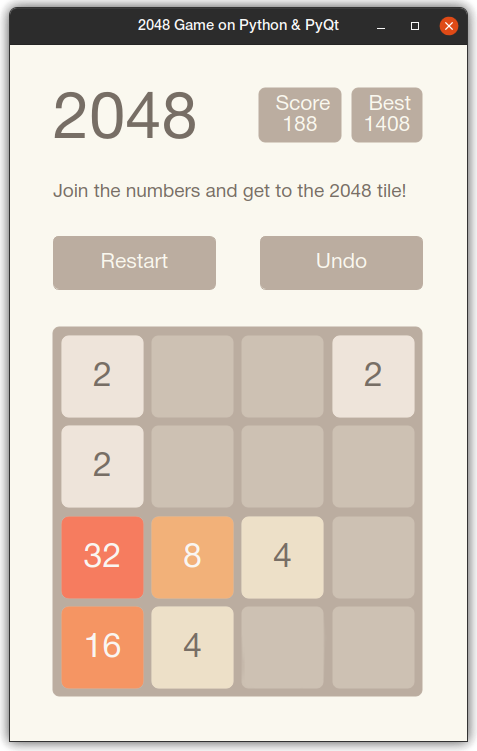
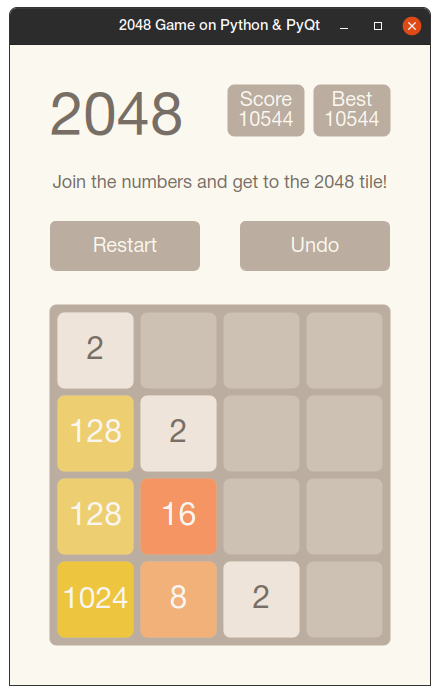
Pre-final

diff --git a/buttons.css b/buttons.css
@@ -1,0 +1,7 @@
+QPushButton {
+    border: 1px solid #%s;
+    border-radius: %spx;
+    background-color: #%s;
+    font: %spx;
+    color: #%s;
+}

diff --git a/game.py b/game.py
@@ -16,6 +16,7 @@
 
 # import standard
 import sys
+import time
 import random
 import configparser
 
@@ -43,13 +44,10 @@ class Tile(QtCore.QObject):
         self.spawn_animation.setDuration(int(cfg.get("Appearance", "time.animations")))
         self.splash_animation = QtCore.QPropertyAnimation(self, b'geometry')
         self.splash_animation.setDuration(int(cfg.get("Appearance", "time.animations")))
-
         self.cell_color = QtGui.QColor("#" + cfg.get("Appearance", "color.%s" % value if value <= 2048 else 2048))
         self.text_color = QtGui.QColor("#" + cfg.get("Appearance", "color.text.dark"))
         if value > 4:
             self.text_color = QtGui.QColor("#" + cfg.get("Appearance", "color.text.light"))
-        self.pen = QtGui.QPen(QtCore.Qt.SolidLine)
-        self.brush = QtGui.QBrush(self.cell_color)
         self.font = QtGui.QFont()
 
     def setGeometry(self, rect: QtCore.QRect):
@@ -69,16 +67,15 @@ class Tile(QtCore.QObject):
                                 self._height)
 
     def render(self, painter):
-        self.pen.setColor(self.cell_color)
-        painter.setPen(self.pen)
-        painter.setBrush(self.brush)
+        painter.setPen(self.cell_color)
+        painter.setBrush(self.cell_color)
         painter.drawRoundedRect(self.getGeometry(),
                                 self.matrix.sf * 3,
                                 self.matrix.sf * 3,
                                 QtCore.Qt.AbsoluteSize)
-        self.pen.setColor(self.text_color)
-        painter.setPen(self.pen)
-        pixel_size = int(16 * self.matrix.sf * (self._width/self.matrix.tl))
+        painter.setPen(self.text_color)
+        pixel_size = int(16 * self.matrix.sf * (self._width/self.matrix.tl)) if self.value < 1024 else \
+            int(15 * self.matrix.sf * (self._width / self.matrix.tl))
         self.font.setPixelSize(pixel_size if pixel_size else 1)
         painter.setFont(self.font)
         painter.drawText(self.getGeometry(),
@@ -92,9 +89,10 @@ class Tile(QtCore.QObject):
 
     def splash(self):
         self.splash_animation.setStartValue(self.getGeometry())
-        self.splash_animation.setKeyValueAt(0.5, QtCore.QRect(self._x, self._y,
-                                                       int(self._width + 5 * self.matrix.sf),
-                                                       int(self._height + 5 * self.matrix.sf)))
+        self.splash_animation.setKeyValueAt(0.5, QtCore.QRect(self._x,
+                                                              self._y,
+                                                              int(self._width + 7 * self.matrix.sf),
+                                                              int(self._height + 7 * self.matrix.sf)))
         self.splash_animation.setEndValue(self.getGeometry())
         self.splash_animation.start()
 
@@ -103,23 +101,21 @@ class Tile(QtCore.QObject):
         self.move_animation.setEndValue(QtCore.QRect(target.x(), target.y(), self._width, self._height))
         self.move_animation.start()
 
-    def __str__(self):
-        return str(self.value)
-
+    # noinspection PyUnresolvedReferences
     geometry = QtCore.pyqtProperty(QtCore.QRect, fset=setGeometry)
 
 
 class Matrix:
 
     def __init__(self, parent):
-        self.parent = parent                      # parent link for tiles updating
-        self.data = []                            # tiles and coords massive
-        self.grid = int(cfg.get("Game", "grid"))  # grid resolution
-        self.sf = 1                               # current scale factor
-        self.tl = 37.5                            # target tile length
-        self.sp = 4                               # space beetwen tiles
-        self.modified = False                     # merge anchor
-        self.save_loaded = False
+        self.parent = parent                         # parent link for tiles updating
+        self.data = []                               # tiles and coords massive
+        self.grid = int(cfg.get("Game", "grid"))     # grid resolution
+        self.sf = 1                                  # current scale factor
+        self.tl = 37.5                               # target tile length
+        self.sp = 4                                  # space beetwen tiles
+        self.modified = False                        # modified anchor
+        self.save_loaded = False                     # loading progress anchor
         save = cfg.get("Game", "save")
         self.fill(list(map(int, save.split(" "))) if save else None)
 
@@ -129,14 +125,12 @@ class Matrix:
         for row in range(self.grid):
             for cell in range(self.grid):
                 # update 'position' value for every cell on grid
-                self.data[row][cell]['position'] = QtCore.QPoint(int(20 * self.sf + (cell + 1) * self.sp + cell * self.tl),
-                                                                 int(130 * self.sf + (row + 1) * self.sp + row * self.tl))
+                x = int(20 * self.sf + (cell + 1) * self.sp + cell * self.tl)
+                y = int(130 * self.sf + (row + 1) * self.sp + row * self.tl)
+                self.data[row][cell]['position'] = QtCore.QPoint(x, y)
                 # update geometry for existing tiles
                 if self.data[row][cell]['data'][0]:
-                    self.data[row][cell]['data'][0].setGeometry(QtCore.QRect(self.data[row][cell]['position'].x(),
-                                                                             self.data[row][cell]['position'].y(),
-                                                                             int(self.tl),
-                                                                             int(self.tl)))
+                    self.data[row][cell]['data'][0].setGeometry(QtCore.QRect(x, y, int(self.tl), int(self.tl)))
 
     def fill(self, defaults=None):
         # create empty
@@ -150,7 +144,7 @@ class Matrix:
             src = defaults
             self.save_loaded = True
         else:
-            src = [0 for index in range(self.grid ** 2)]
+            src = [0 for x in range(self.grid ** 2)]
         # fill
         counter = 0
         for row in self.data:
@@ -200,35 +194,33 @@ class Matrix:
                     cell['data'] = [new_tile]
                     new_tile.splash()
 
+    def shift_tile_left(self, r, c):
+        if c == 0 or len(self.data[r][c - 1]['data']) > 1:
+            return r, c
+        if self.data[r][c - 1]['data'][0] == 0:
+            self.data[r][c - 1]['data'] = self.data[r][c]['data']
+            self.data[r][c]['data'] = [0]
+            return self.shift_tile_left(r, c - 1)
+        if self.data[r][c - 1]['data'][0].value == self.data[r][c]['data'][0].value:
+            self.data[r][c - 1]['data'].append(self.data[r][c]['data'][0])
+            self.data[r][c]['data'] = [0]
+            return r, c - 1
+        return r, c
+
     def merge(self):
-        for row in range(self.grid):
-            for cell in range(self.grid):
-                if self.data[row][cell]['data'][0]:
-                    src = self.data[row][cell]['data']
-                    tile = src[0]
-                    target = None
-                    for tc in range(cell):
-                        if len(self.data[row][:cell][- tc - 1]['data']) > 1:
-                            continue
-                        if self.data[row][:cell][- tc - 1]['data'][0] == 0:
-                            self.data[row][:cell][- tc - 1]['data'] = [src[0]]
-                            target = self.data[row][:cell][- tc - 1]['position']
-                            del src[0]
-                            src.append(0)
-                            src = self.data[row][:cell][- tc - 1]['data']
-                            self.modified = True
-                        elif self.data[row][:cell][- tc - 1]['data'][0].value == src[0].value:
-                            self.data[row][:cell][- tc - 1]['data'].append(src[0])
-                            target = self.data[row][:cell][- tc - 1]['position']
-                            del src[0]
-                            src.append(0)
-                            src = self.data[row][:cell][- tc - 1]['data']
-                            self.modified = True
-                            break
-                        else:
-                            break
-                    if target:
-                        src[-1].move(target)
+        start_anim_time = None
+        for r in range(self.grid):
+            for c in range(self.grid):
+                if self.data[r][c]['data'][0] != 0:
+                    tile = self.data[r][c]['data'][0]
+                    nr, nc = self.shift_tile_left(r, c)
+                    if nc != c:
+                        tile.move(self.data[nr][nc]['position'])
+                        self.modified = True
+                        start_anim_time = time.time()
+        if start_anim_time:
+            while time.time() - start_anim_time < int(cfg.get("Appearance", "time.animations")) / 1000:
+                self.parent.update()
 
     def reverse(self):
         data = []
@@ -304,6 +296,8 @@ class Canvas(QtWidgets.QWidget):
         self.undo_button = QtWidgets.QPushButton(cfg.get("Locale", "undo"), self)
         self.undo_button.setFocusPolicy(QtCore.Qt.NoFocus)
         self.undo_button.clicked.connect(parent.undo)
+        with open('buttons.css', 'r') as css:
+            self.buttons_style = css.read()
 
     def paintEvent(self, event):
         # open painter
@@ -345,8 +339,8 @@ class Canvas(QtWidgets.QWidget):
         self.painter.drawRoundedRect(sr, int(self.sf * 3), int(self.sf * 3), QtCore.Qt.AbsoluteSize)
         self.painter.drawRoundedRect(hsr, int(self.sf * 3), int(self.sf * 3), QtCore.Qt.AbsoluteSize)
         self.painter.setPen(QtGui.QColor("#" + cfg.get("Appearance", "color.background")))
-        self.painter.drawText(sr, QtCore.Qt.AlignVCenter|QtCore.Qt.AlignHCenter, st)
-        self.painter.drawText(hsr, QtCore.Qt.AlignVCenter|QtCore.Qt.AlignHCenter, hst)
+        self.painter.drawText(sr, QtCore.Qt.AlignVCenter | QtCore.Qt.AlignHCenter, st)
+        self.painter.drawText(hsr, QtCore.Qt.AlignVCenter | QtCore.Qt.AlignHCenter, hst)
         # draw boundary of the playing field
         self.painter.setPen(QtGui.QColor("#" + cfg.get("Appearance", "color.grid")))
         self.painter.setBrush(QtGui.QColor("#" + cfg.get("Appearance", "color.grid")))
@@ -382,17 +376,11 @@ class Canvas(QtWidgets.QWidget):
         self.matrix.update()
         self.new_button.setGeometry(int(20 * sf), int(88 * sf), int(75 * sf), int(25 * sf))
         self.undo_button.setGeometry(int(115 * sf), int(88 * sf), int(75 * sf), int(25 * sf))
-        dynamic_style = """QPushButton {
-        border: 1px solid #%s;
-        border-radius: %spx;
-        background-color: #%s;
-        font: %spx;
-        color: #%s
-        }""" % (cfg.get("Appearance", "color.grid"),
-                int(sf * 3),
-                cfg.get("Appearance", "color.grid"),
-                int(sf * 10),
-                cfg.get("Appearance", "color.background"))
+        dynamic_style = self.buttons_style % (cfg.get("Appearance", "color.grid"),
+                                              int(sf * 3),
+                                              cfg.get("Appearance", "color.grid"),
+                                              int(sf * 10),
+                                              cfg.get("Appearance", "color.background"))
         self.new_button.setStyleSheet(dynamic_style)
         self.undo_button.setStyleSheet(dynamic_style)
 
@@ -421,6 +409,7 @@ class Main(QtWidgets.QWidget):
         self.canvas = Canvas(self)
         self.show()
         if not self.matrix.save_loaded:
+            self.score = 0
             self.matrix.spawn()
 
     def keyPressEvent(self, event):
@@ -447,14 +436,11 @@ class Main(QtWidgets.QWidget):
             if self.matrix.modified:
                 self.matrix.collect()
                 self.matrix.spawn()
-                if self.matrix.check_state() is False:
-                    self.state = "lose"
-                    self.update()
-                if self.matrix.find_2048():
-                    self.state = "win"
-                    self.update()
+                self.check_state()
 
     def new_game(self):
+        self.previous_score = self.score
+        self.previous_matrix = self.matrix.backup()
         self.score = 0
         self.state = "playing"
         self.matrix.fill()
@@ -465,29 +451,36 @@ class Main(QtWidgets.QWidget):
         if self.previous_matrix:
             self.matrix.data = self.previous_matrix
             self.score = self.previous_score
-            self.previous_matrix = None
-            if self.state == "lose" or self.state == "win" and self.matrix.find_2048() is False:
-                self.state = "playing"
             self.matrix.update()
-            self.update()
+            self.check_state()
+            self.previous_matrix = None
+
+    def check_state(self):
+        if self.matrix.check_state() is False:
+            self.state = "lose"
+        elif self.matrix.find_2048():
+            self.state = "win"
+        else:
+            self.state = "playing"
+        self.update()
 
     def resizeEvent(self, event):
-        ns = event.size()
+        new_size = event.size()
         ar = float(cfg.get("Appearance", "aspect.ratio"))
-        if ns.width() != event.oldSize().width():
-            nw = ns.width()
-            nh = int(nw / ar)
-            if nh > ns.height():
-                nh = ns.height()
-                nw = int(nh * ar)
+        if new_size.width() != event.oldSize().width():
+            new_width = new_size.width()
+            new_height = int(new_width / ar)
+            if new_height > new_size.height():
+                new_height = new_size.height()
+                new_width = int(new_height * ar)
         else:
-            nh = ns.height()
-            nw = int(nh * ar)
-            if nw > ns.width():
-                nw = ns.width()
-                nh = int(nw / ar)
-        self.canvas.resize(nw, nh)
-        self.canvas.move(int((self.width() - nw) / 2), int((self.height() - nh) / 2))
+            new_height = new_size.height()
+            new_width = int(new_height * ar)
+            if new_width > new_size.width():
+                new_width = new_size.width()
+                new_height = int(new_width / ar)
+        self.canvas.resize(new_width, new_height)
+        self.canvas.move(int((self.width() - new_width) / 2), int((self.height() - new_height) / 2))
 
     def closeEvent(self, event):
         data = []

diff --git a/README.md b/README.md
@@ -1,7 +1,7 @@
 # 2048-PyQt
-Based on popular game [2048](https://github.com/gabrielecirulli/2048) by Gabriele Cirulli.
-The game's objective is to slide numbered tiles on a grid to combine them to create a tile with 
-the number 2048. Here is Python version that uses PyQt5.  
+Based on popular game [2048](https://github.com/gabrielecirulli/2048) by Gabriele 
+Cirulli. The game's objective is to slide numbered tiles on a grid to combine 
+them to create a tile with the number 2048. Here is Python version that uses PyQt5.  
 
 ![screenshot](screenshot.png)  
 
